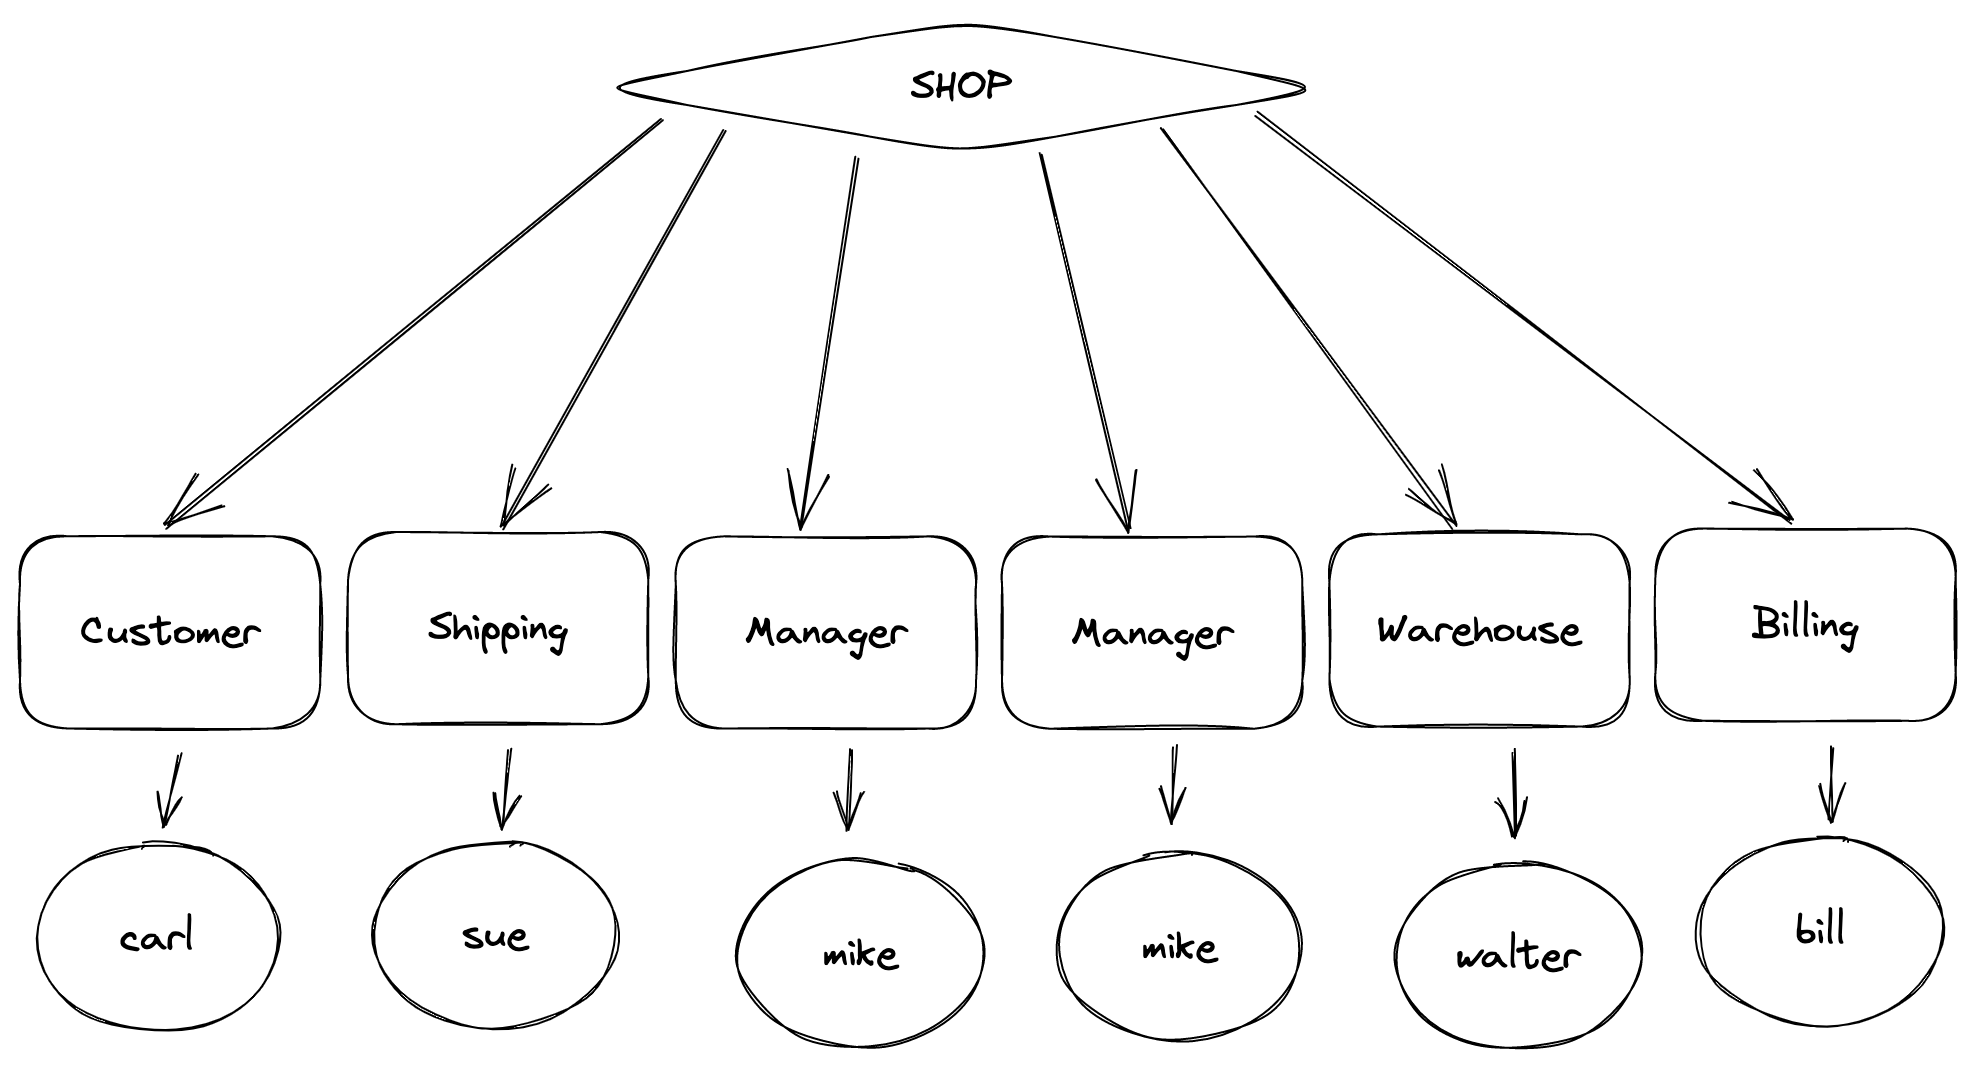
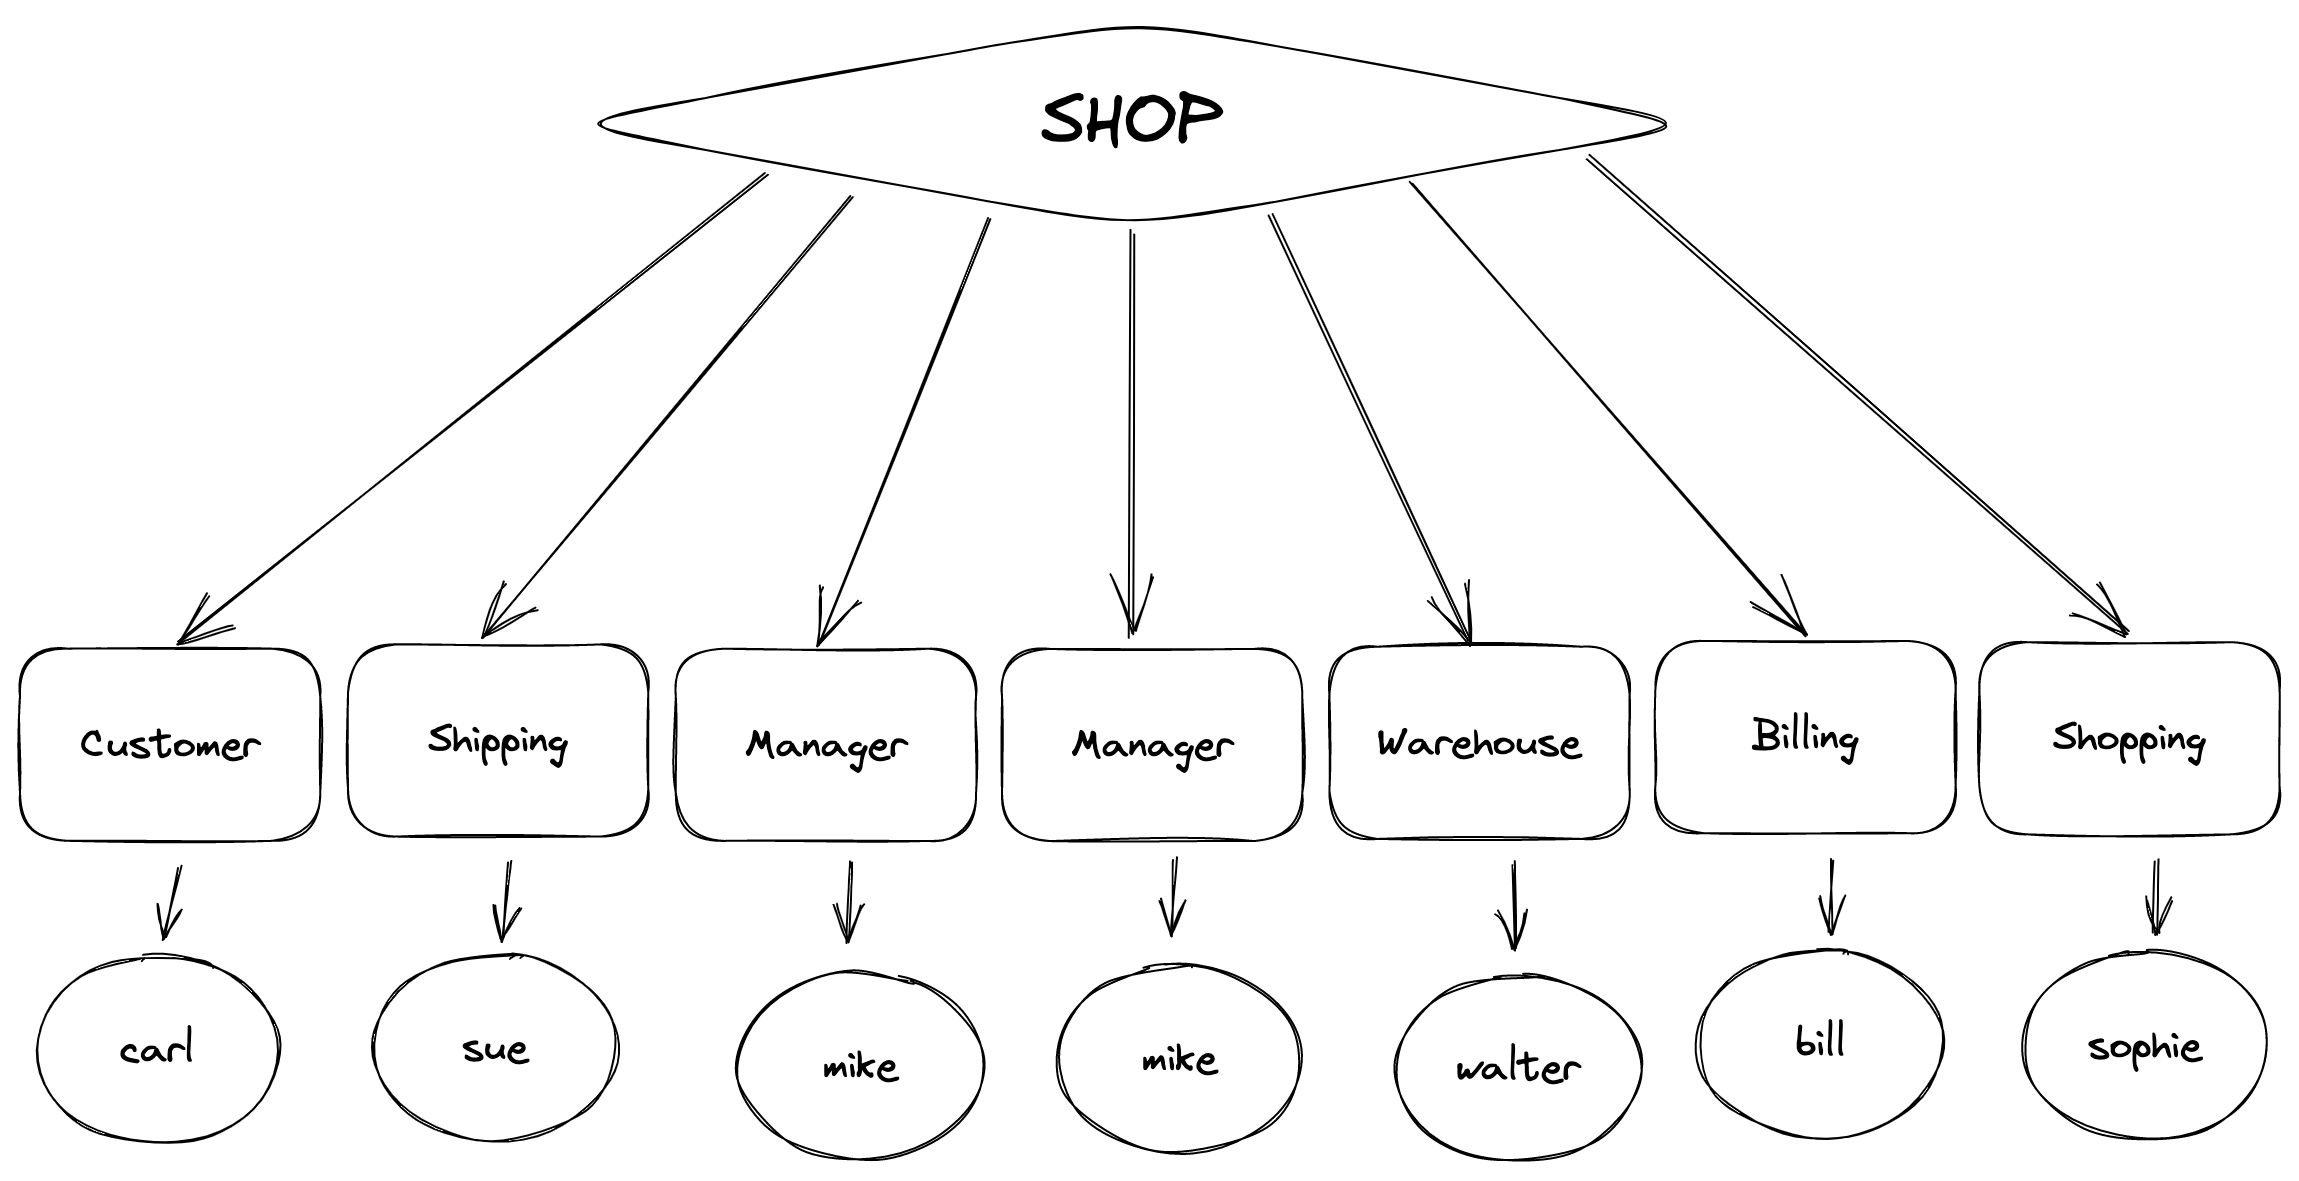
feat(org): add shopping department with user sophie

diff --git a/README.md b/README.md
@@ -13,5 +13,6 @@ The following users are defined:
 - walter: Warehouse department
 - mike: Management department
 - mona: Shop moderation
+- sophie: Shopping department
 
 > **Note:** The passwords for all users are `123`.
